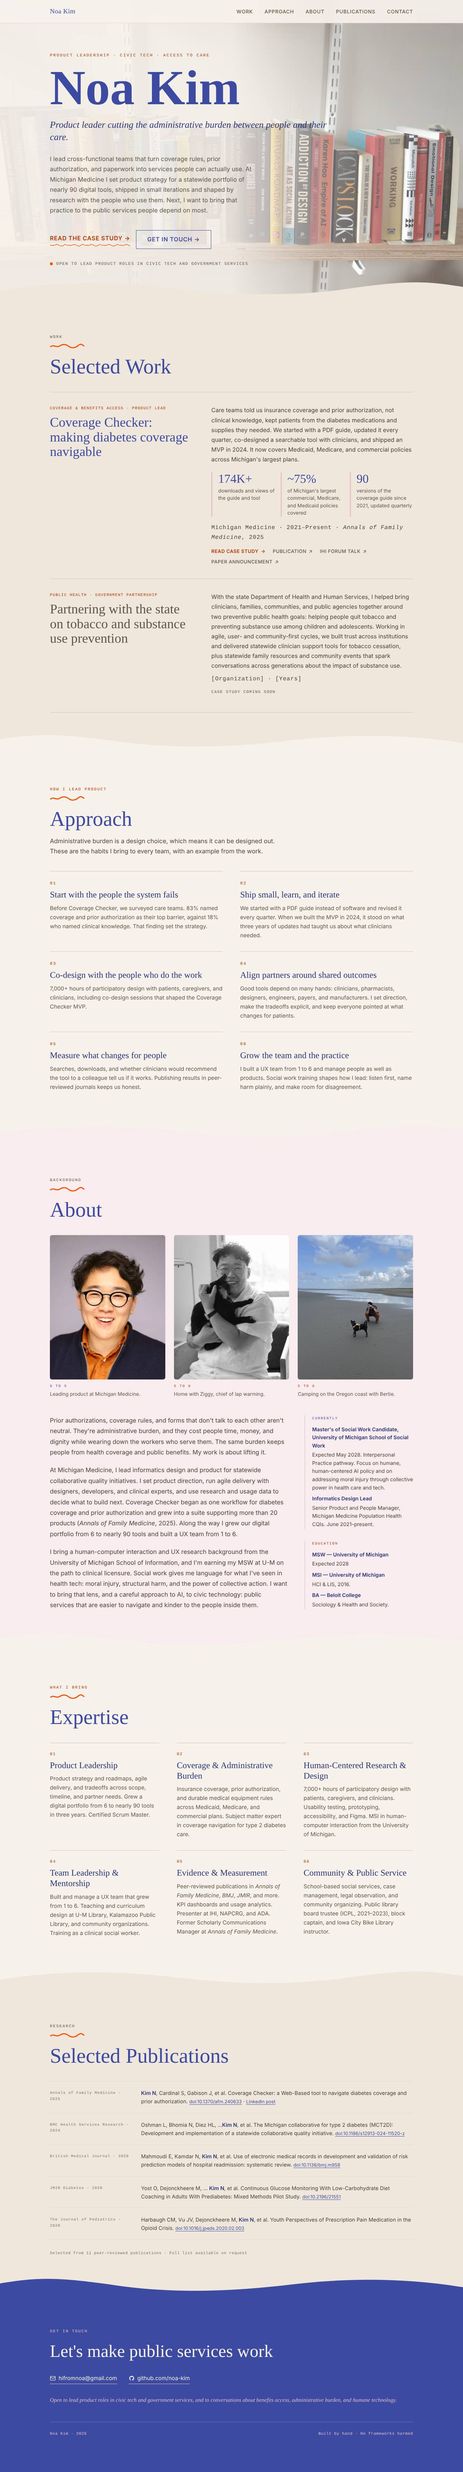
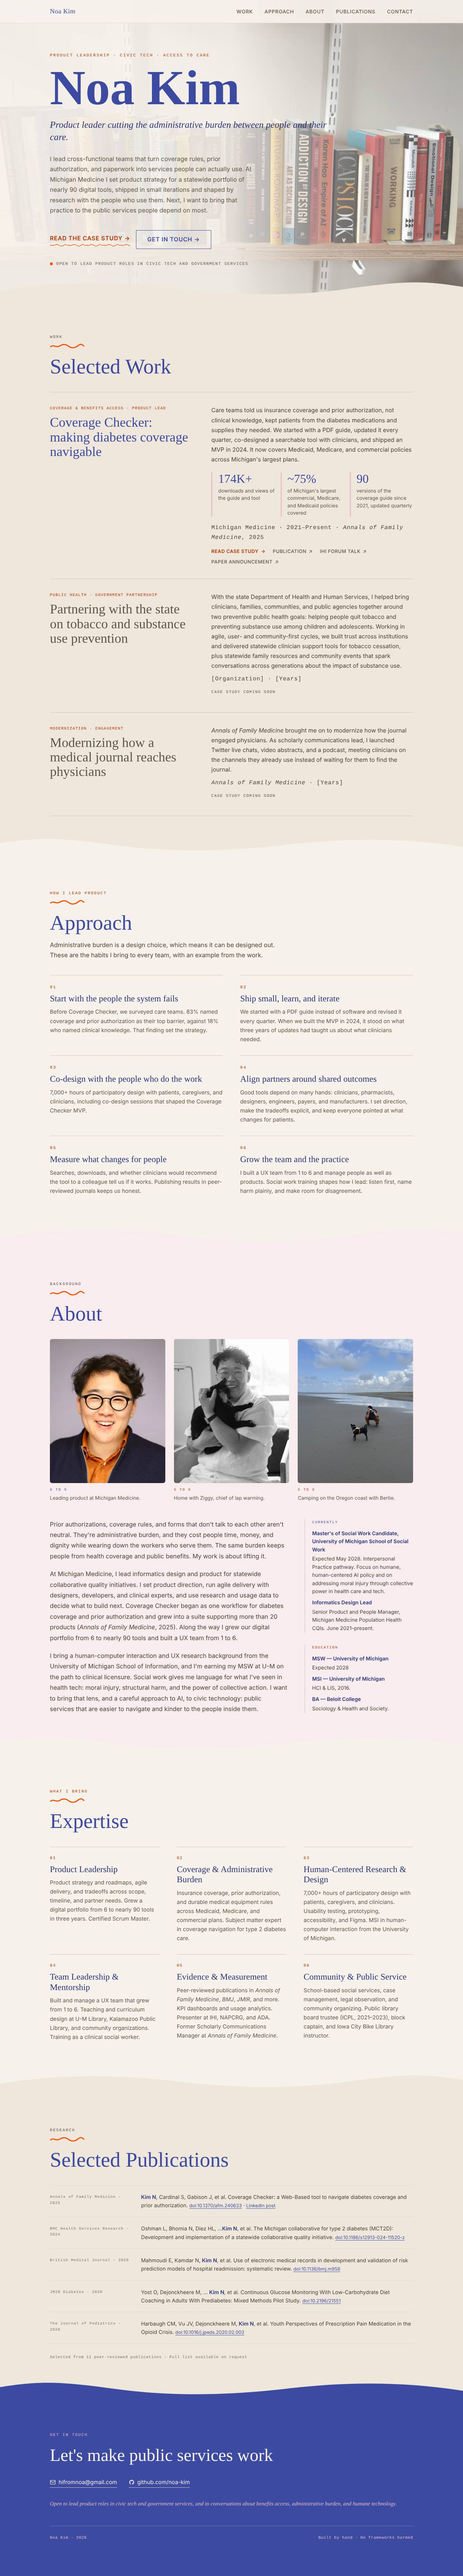
Add Annals of Family Medicine engagement work to Selected Work
New card for Noa's work modernizing how the journal engaged
physicians (Twitter live chats, video abstracts, podcast). Years are
a placeholder. Refreshes previews.

Claude-Session: https://claude.ai/code/session_01N1cWYNiauM474wEJeNwVjT

diff --git a/index.html b/index.html
@@ -918,6 +918,18 @@
             <span class="project-soon">Case study coming soon</span>
           </article>
 
+          <article class="project-card project-card--soon">
+            <span class="project-tag">Modernization · Engagement</span>
+            <h3>Modernizing how a medical journal reaches physicians</h3>
+            <p>
+              <em>Annals of Family Medicine</em> brought me on to modernize how the journal engaged physicians.
+              As scholarly communications lead, I launched Twitter live chats, video abstracts, and a podcast,
+              meeting clinicians on the channels they already use instead of waiting for them to find the journal.
+            </p>
+            <p class="project-meta"><em>Annals of Family Medicine</em> · [Years]</p>
+            <span class="project-soon">Case study coming soon</span>
+          </article>
+
         </div>
       </div>
     </section>
